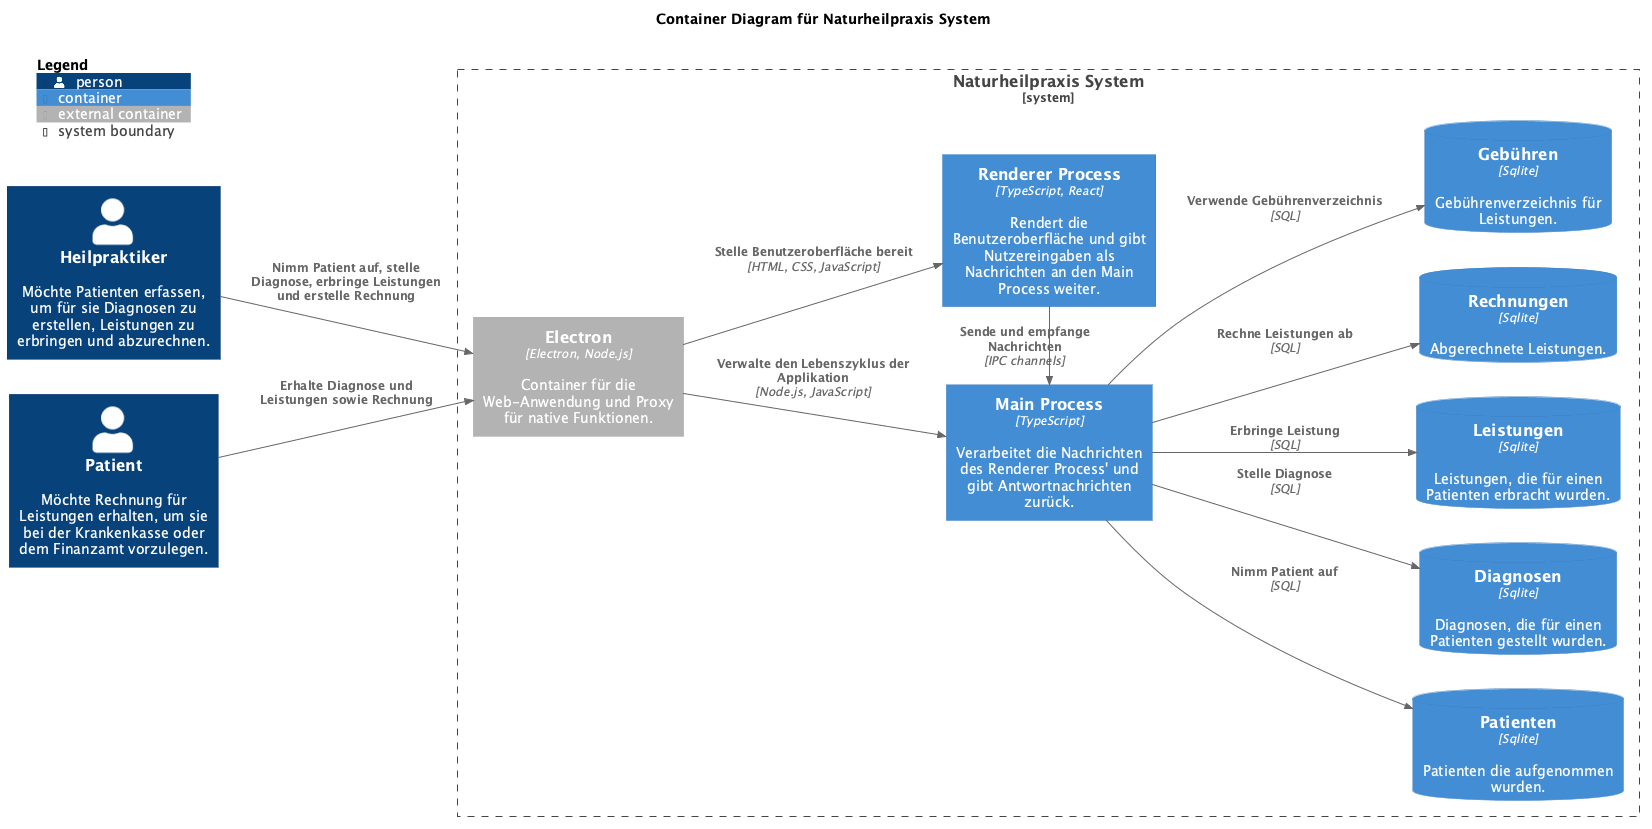
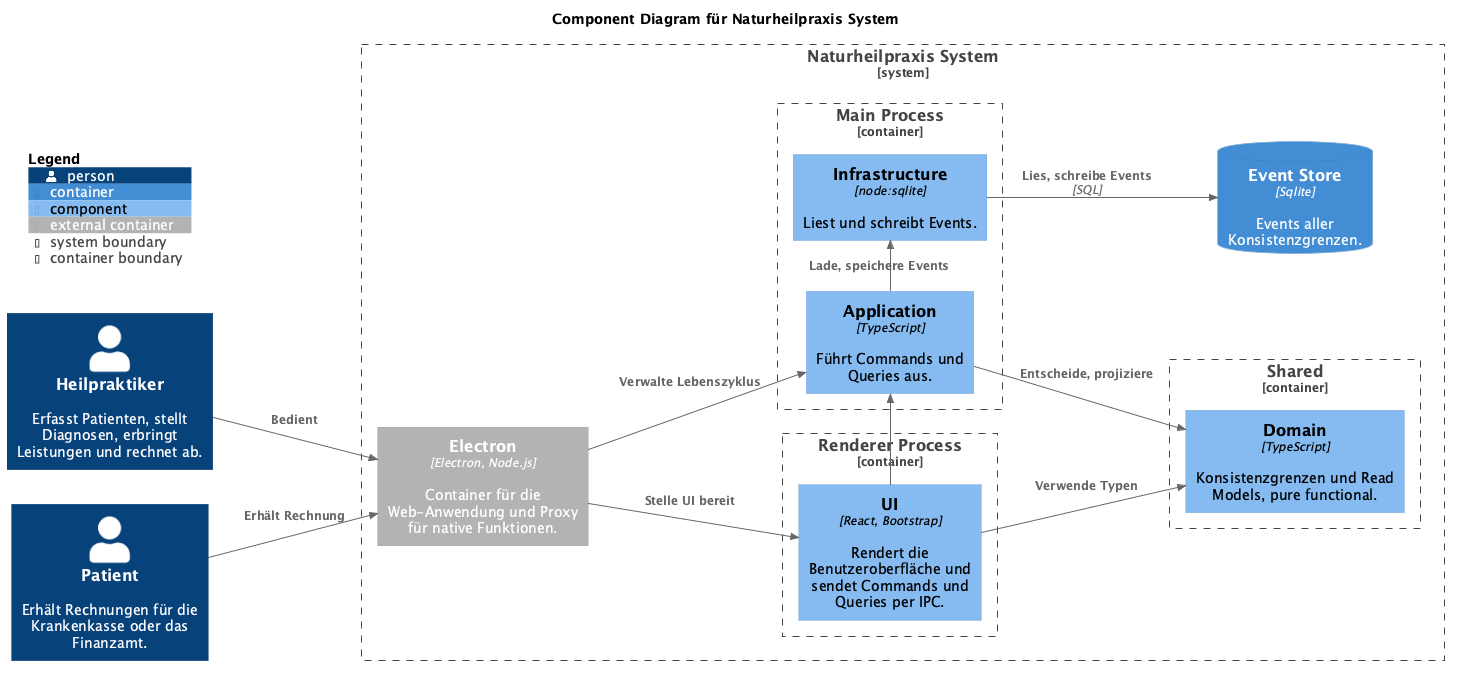
docs: add MVP backlog and align architecture docs with event store
Update the component diagram and the core decisions of the canvas to
event sourcing in SQLite and the functional core, imperative shell
pattern. Also fix the path of the PlantUML diagrams in the Makefile.

diff --git a/docs/acc.html b/docs/acc.html
@@ -151,8 +151,8 @@
         <h2>Core Decisions - Good or Bad</h2>
         <ul>
           <li>Nutze Web-Technologien als Grundlage</li>
-          <li>Implementiere hexagonale Architektur</li>
-          <li>Sichere Daten in relationaler Datenbank</li>
+          <li>Implementiere Functional Core, Imperative Shell</li>
+          <li>Sichere Events in SQLite (Event Sourcing)</li>
           <li>Nutze fertige Komponenten, um den Aufwand zu reduzieren</li>
           <li>Reduziere die Abhängigkeit von Frameworks und Bibliotheken von Dritten auf ein Minimum</li>
         </ul>

diff --git a/BACKLOG.md b/BACKLOG.md
@@ -15,3 +15,29 @@ Jeder Eintrag beginnt mit einer Kategorie:
 (FURPS+).
 
 ## Aufgaben
+
+- [ ] **Praxis** Praxis anlegen und Praxisdaten ändern (`praxisverwaltung`)
+      sowie Praxen anzeigen (`praxenansicht`) als erster Durchstich durch alle
+      Schichten: Domain, Event Store in SQLite, IPC, UI und E2E-Schritt
+      „Heilpraktiker legt Praxis an“.
+- [ ] **Gebühr** Gebührenverzeichnis pflegen (`gebuehrenverzeichnis`) und
+      Gebühren anzeigen (`gebuehrenansicht`).
+- [ ] **Patient** Patient aufnehmen (`patientenaufnahme`), Patientendaten ändern
+      (`patientenkartei`) und Patienten anzeigen (`patientenansicht`) mit
+      E2E-Schritt „Heilpraktiker legt Patientenkarteikarte für Patient an“.
+- [ ] **Diagnose** Diagnose stellen, ändern und löschen (`diagnosestellung`)
+      sowie Diagnosen anzeigen (`behandlungsansicht`) mit E2E-Schritt
+      „Heilpraktiker stellt Diagnose für Patient“.
+- [ ] **Leistung** Leistung erbringen, ändern und löschen
+      (`leistungserbringung`) sowie Behandlungen anzeigen (`behandlungsansicht`)
+      mit E2E-Schritt „Heilpraktiker erbringt Leistung für Patient“.
+- [ ] **Rechnung** Rechnung aus nicht abgerechneten Leistungen erstellen, ändern
+      und Entwurf löschen (`abrechnung`) sowie Abrechnungen und Rechnung
+      anzeigen (`abrechnungsansicht`, `rechnungsansicht`) mit E2E-Schritt
+      „Heilpraktiker erstellt Rechnung aus Leistung wegen Diagnose“.
+- [ ] **Rechnung** Rechnung versenden und Versand zurücknehmen (`abrechnung`)
+      mit E2E-Schritt „Heilpraktiker versendet Rechnung an Patient“.
+- [ ] **Rechnung** Zahlung erfassen (`abrechnung`) mit E2E-Schritt „Patient
+      bezahlt Rechnung“.
+- [ ] **Funktionalität** Daten der bisherigen RDBMS-Anwendung übernehmen (Schema
+      im Abschnitt „Migration“ von `docs/README.md`). Nicht Teil des MVP.
